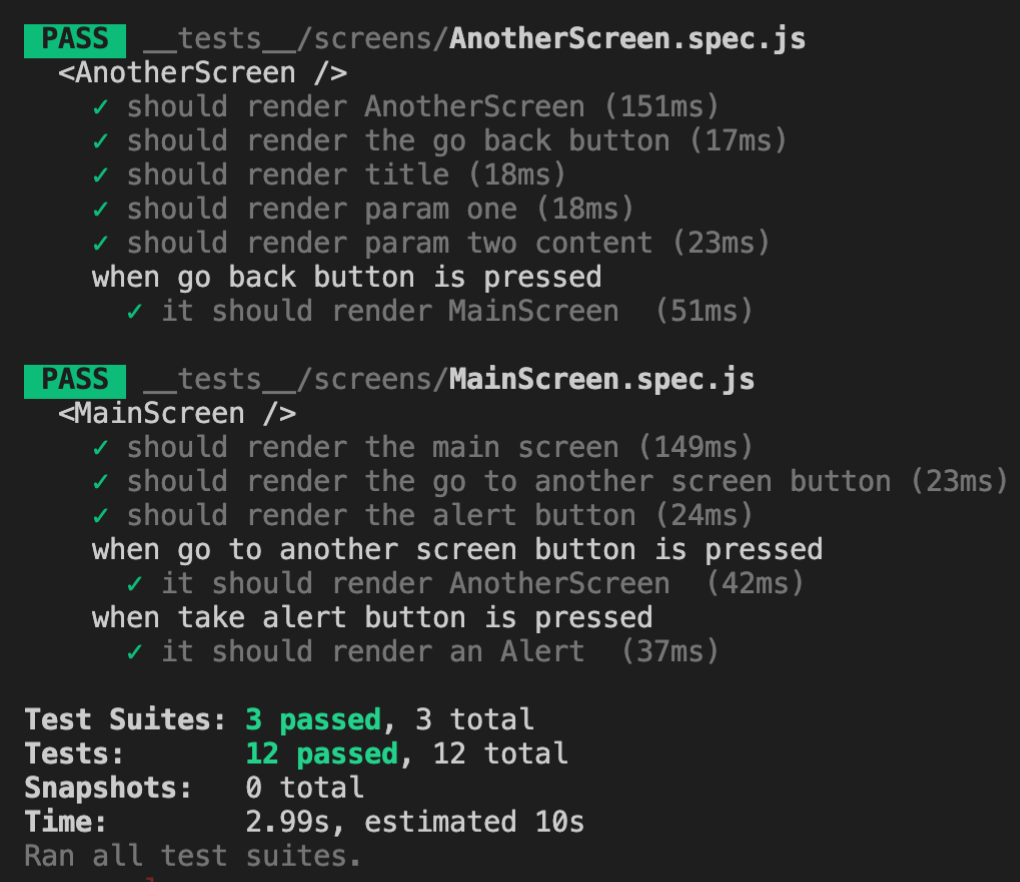
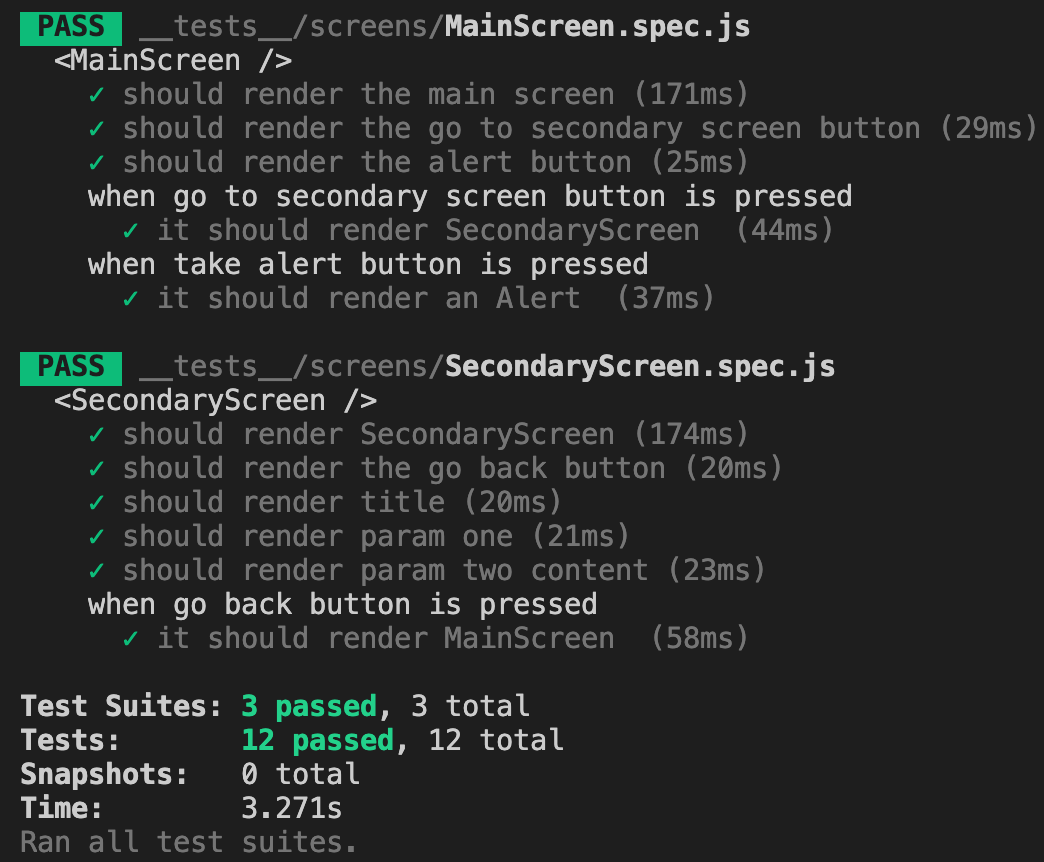
Rename AnotherScreen with SecondaryScreen

diff --git a/content/How to Test React Native Apps - Manuela Viola.md b/content/How to Test React Native Apps - Manuela Viola.md
@@ -2,7 +2,7 @@
 
 ## Introduction
 
-Have you ever had a bug introduced by solving another problem and didn't realize it until weeks later? This could have been easily avoided if you had unit tests for your App.
+Have you ever had a bug introduced by solving another problem and didn't realize it until weeks later? This could have been easily avoided if you had tests for your App.
 
 In a project with a tight schedule, unit tests are generally the first one to disappear, but they are being underestimated. Once you make that click and understand how to make the tests, it's not that complicated to make them and avoid future problems.
 
@@ -45,7 +45,7 @@ Notice that to know how to ask for a specific component, we can simply add the `
 
 ## Creating tests for our App
 
-Now we need to create our own tests, so we can test our `MainScreen` and `AnotherScreen`. We can create the `screens` folder inside the `__tests__` folder to have better organized tests.
+Now we need to create our own tests, so we can test our `MainScreen` and `SecondaryScreen`. We can create the `screens` folder inside the `__tests__` folder to have better organized tests.
 
 Also, we are going to need some extra files to handle navigation and screen parameters data, so we can create an `extras` folder inside the `__tests__` folder for this purpose. If you paid attention you may have noticed that we had added `modulePathIgnorePatterns: ['extras']` to the `jest.config.js` file. This is to tell jest to ignore the `.js` files that this folder contains, otherwise, it will consider them tests and we don't want that.
 
@@ -57,7 +57,7 @@ Keeping this in mind, we will create a `helpers.js` file inside the `extras` fol
 
 https://gist.github.com/ManuViola77/ebb7e47769a54b2fb6759eeefc912809
 
-We will get more into detail when we use it in the `AnotherScreen` test.
+We will get more into detail when we use it in the `SecondaryScreen` test.
 
 ### MainScreen test
 
@@ -68,8 +68,8 @@ Since we are in the AppStack's first screen we can just render the entire `AppSt
 This file should test the `MainScreen` components existence and behaviour:
 
 - Rendering component `MainScreen`
-- Rendering component `button-to-another-screen`
-- Pressing component `button-to-another-screen` and redirecting to `AnotherScreen`
+- Rendering component `button-to-secondary-screen`
+- Pressing component `button-to-secondary-screen` and redirecting to `SecondaryScreen`
 - Rendering component `alert-button`
 - Pressing component `alert-button` and showing an alert
 
@@ -77,17 +77,17 @@ Each of this items should translate to an `it()` jest method and so our `MainScr
 
 https://gist.github.com/ManuViola77/809d28c61fdad272d2ce1b3d3147bde5
 
-### AnotherScreen test
+### SecondaryScreen test
 
-Inside the `screens` folder we should create the `AnotherScreen.spec.js` file.
+Inside the `screens` folder we should create the `SecondaryScreen.spec.js` file.
 
-Since we are not in the AppStack's first screen and our screen receives parameters, we are going to take advantage of the helper we created. We will call the function `renderWithNavigation` with `AnotherScreen` as its `mainComponent` and as second parameter we will give `MainScreen` as `otherComponents` and `screenParameters` as `screenConfig initialParams`. We will create a `data.js` file inside the `extras` folders to have our `screenParameters` set:
+Since we are not in the AppStack's first screen and our screen receives parameters, we are going to take advantage of the helper we created. We will call the function `renderWithNavigation` with `SecondaryScreen` as its `mainComponent` and as second parameter we will give `MainScreen` as `otherComponents` and `screenParameters` as `screenConfig initialParams`. We will create a `data.js` file inside the `extras` folders to have our `screenParameters` set:
 
 https://gist.github.com/ManuViola77/2871545d426cdda330f322e517c46b0e
 
-This file should test the `AnotherScreen` components existence and behaviour:
+This file should test the `SecondaryScreen` components existence and behaviour:
 
-- Rendering component `AnotherScreen`
+- Rendering component `SecondaryScreen`
 - Rendering component `back-button`
 - Pressing component `back-button` and redirecting to `MainScreen`
 - Rendering component `title`
@@ -96,7 +96,7 @@ This file should test the `AnotherScreen` components existence and behaviour:
 
 Notice that our `param-one` and `param-two-content` only render if they have content to render, so if our tests pass means that the screen is getting the parameters right!
 
-Our `AnotherScreen.spec.js` file should look like this:
+Our `SecondaryScreen.spec.js` file should look like this:
 
 https://gist.github.com/ManuViola77/84c055e49f70d48423d5db302bb2fefd
 
